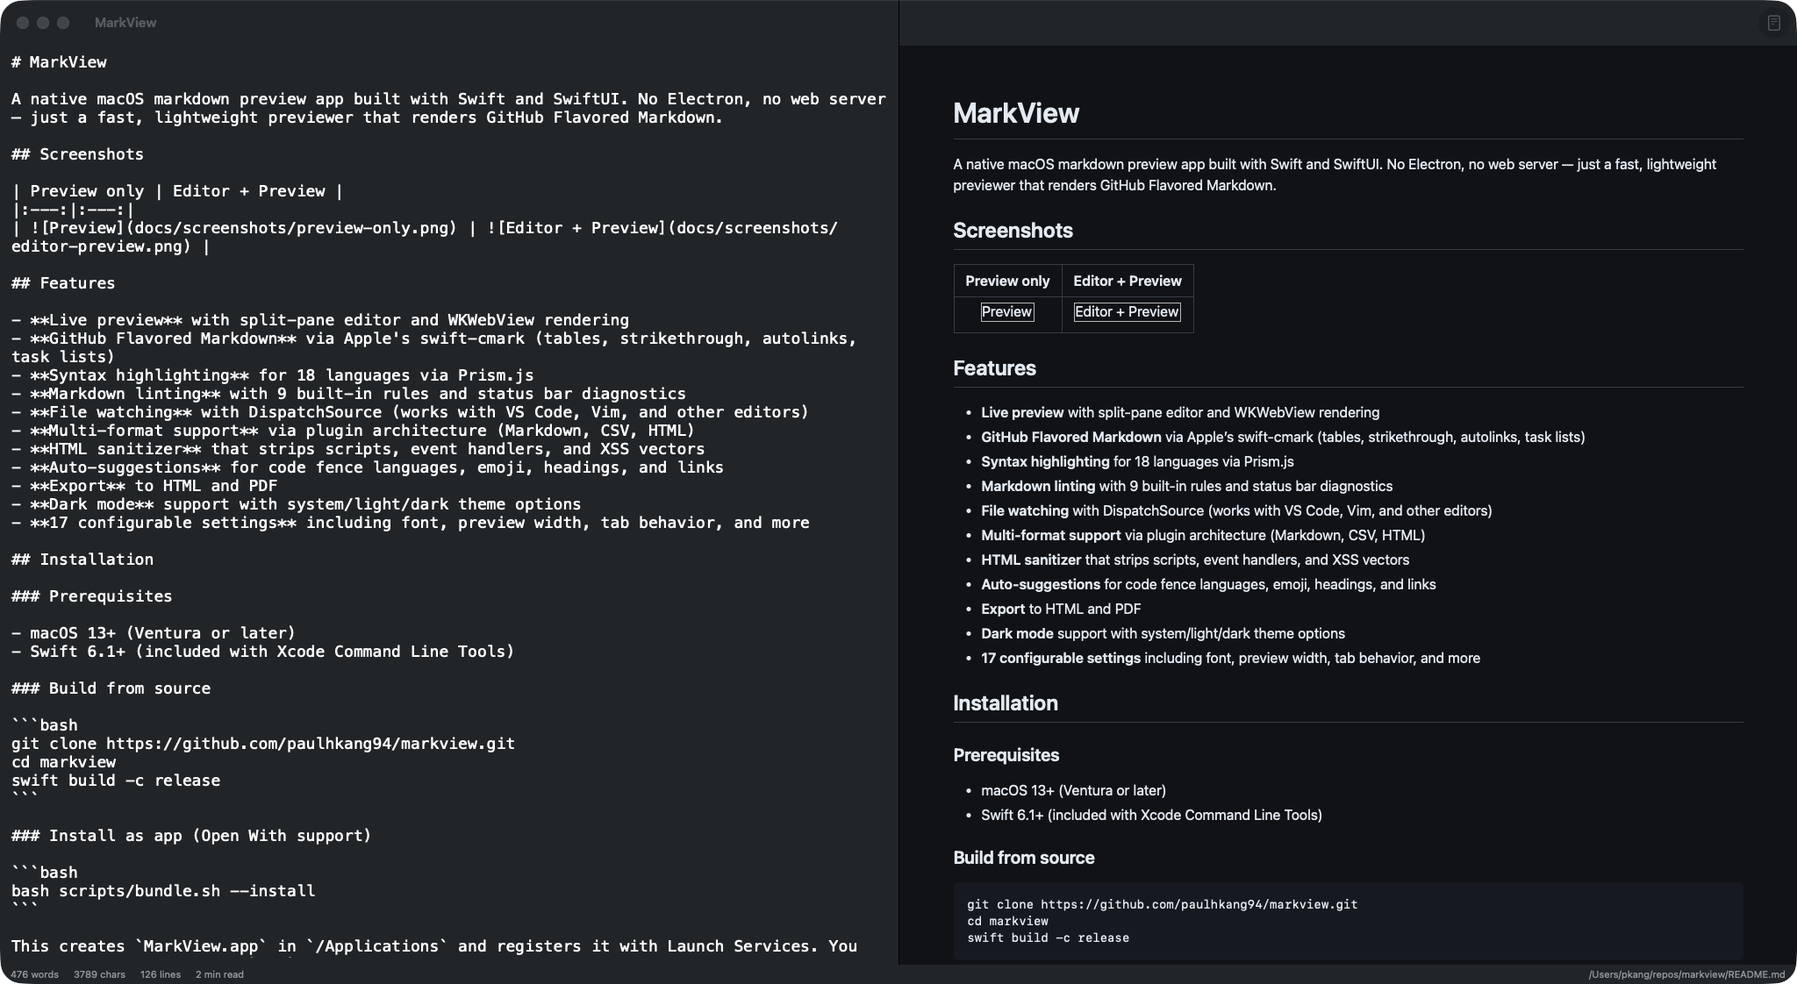
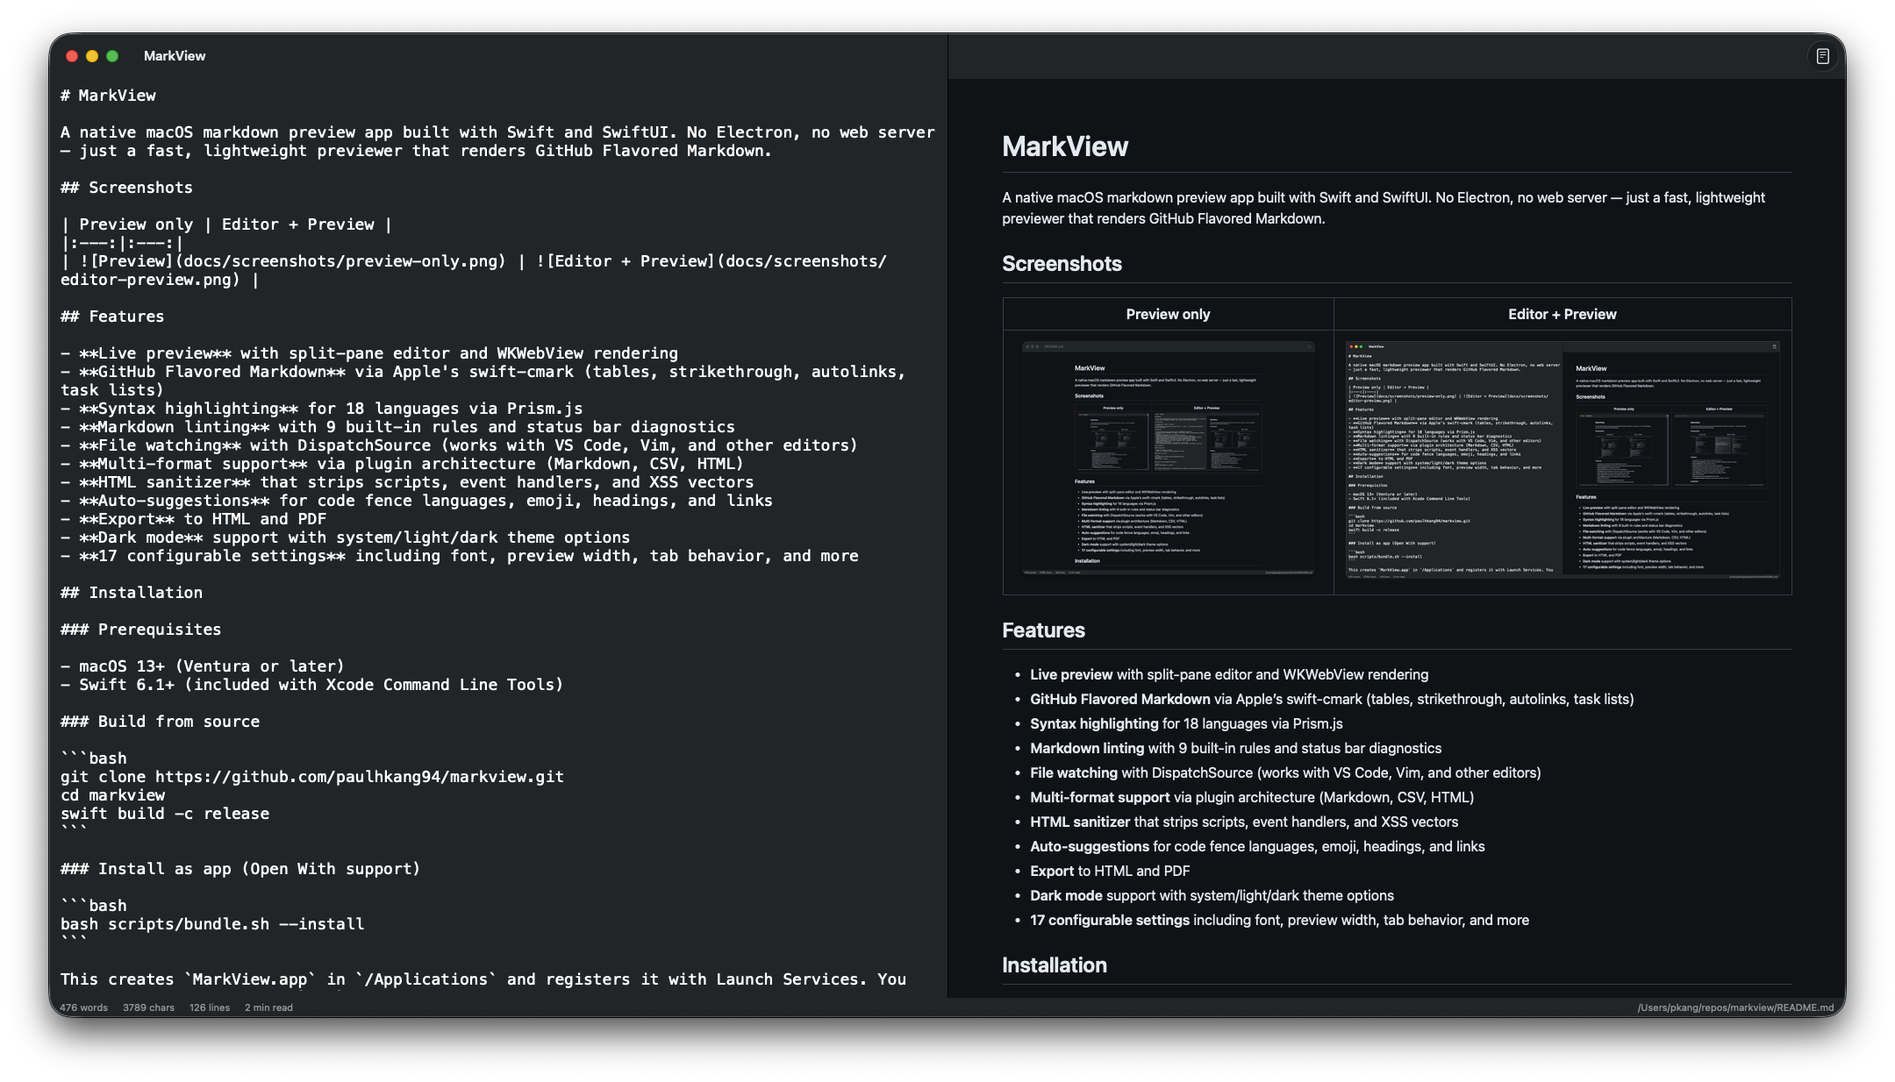
Fix local image rendering, add auto-open panel, dark mode h3-h5, code signing
- Fix WKWebView local image rendering: use loadFileURL + <base> tag instead of
  loadHTMLString (which doesn't grant file access even with allowFileAccessFromFileURLs)
- Auto-show Open panel when launched without a file argument
- Add explicit dark mode colors for h3-h5 headings (previously relied on inheritance)
- Add ad-hoc code signing and quarantine removal to bundle.sh
- Update screenshots with fully automated capture (CGWindowList + screencapture -l)
- Update README test count to 178
- Regenerate golden baselines for CSS changes

Changed region(s): [[0.0, 0.0, 1.0, 1.0]]

diff --git a/Sources/MarkView/WebPreviewView.swift b/Sources/MarkView/WebPreviewView.swift
@@ -3,6 +3,7 @@ import WebKit
 
 struct WebPreviewView: NSViewRepresentable {
     let html: String
+    var baseDirectoryURL: URL?
 
     func makeNSView(context: Context) -> WKWebView {
         let config = WKWebViewConfiguration()
@@ -26,6 +27,7 @@ struct WebPreviewView: NSViewRepresentable {
         case .system:
             webView.appearance = nil // inherit from system
         }
+        context.coordinator.baseDirectoryURL = baseDirectoryURL
         context.coordinator.updateContent(html, in: webView)
     }
 
@@ -35,6 +37,7 @@ struct WebPreviewView: NSViewRepresentable {
 
     class Coordinator {
         weak var webView: WKWebView?
+        var baseDirectoryURL: URL?
         private var hasLoadedInitialPage = false
         private var lastHTML: String = ""
         private var prismJS: String?
@@ -54,11 +57,27 @@ struct WebPreviewView: NSViewRepresentable {
 
             if !hasLoadedInitialPage {
                 let fullHTML = injectPrism(into: styledHTML)
-                webView.loadHTMLString(fullHTML, baseURL: nil)
+                loadViaFileURL(fullHTML, in: webView)
                 hasLoadedInitialPage = true
             } else {
                 updateContentViaJS(styledHTML, in: webView)
             }
+        }
+
+        /// Write HTML to a temp file and load via loadFileURL so WKWebView can access local images.
+        /// loadHTMLString(baseURL:) does NOT grant file system access even with allowFileAccessFromFileURLs.
+        private func loadViaFileURL(_ html: String, in webView: WKWebView) {
+            var finalHTML = html
+            // Inject <base> tag so relative paths (images, links) resolve from the markdown file's directory
+            if let dir = baseDirectoryURL {
+                let baseTag = "<base href=\"\(dir.absoluteString)\">"
+                finalHTML = finalHTML.replacingOccurrences(of: "<head>", with: "<head>\(baseTag)")
+            }
+            let tempFile = FileManager.default.temporaryDirectory.appendingPathComponent("markview-preview.html")
+            try? finalHTML.write(to: tempFile, atomically: true, encoding: .utf8)
+            // Grant read access to / so WKWebView can load local images.
+            // This is a non-sandboxed desktop app — broad file access is expected.
+            webView.loadFileURL(tempFile, allowingReadAccessTo: URL(fileURLWithPath: "/"))
         }
 
         private func injectSettingsCSS(into html: String) -> String {
@@ -164,7 +183,8 @@ struct WebPreviewView: NSViewRepresentable {
             "tr:nth-child(2n) { background-color: #151b23; }",
             "blockquote { border-left-color: #3d444d; color: #8b949e; }",
             "hr { border-top-color: #3d444d; }",
-            "h1, h2 { border-bottom-color: #3d444d; color: #e6edf3; }",
+            "h1, h2, h3, h4, h5 { color: #e6edf3; }",
+            "h1, h2 { border-bottom-color: #3d444d; }",
             "h6 { color: #8b949e; }",
         ].joined(separator: " ")
 

diff --git a/Sources/MarkViewCore/MarkdownRenderer.swift b/Sources/MarkViewCore/MarkdownRenderer.swift
@@ -71,7 +71,7 @@ public final class MarkdownRenderer {
             <style>
                 :root { color-scheme: light dark; }
                 body { font-family: -apple-system, BlinkMacSystemFont, "Segoe UI", Helvetica, Arial, sans-serif; max-width: 900px; margin: 0 auto; padding: 32px; line-height: 1.6; color: #1f2328; background: #fff; }
-                @media (prefers-color-scheme: dark) { body { color: #e6edf3; background: #0d1117; } a { color: #58a6ff; } code:not([class*="language-"]) { background: #343942; color: #e6edf3; } pre { background: #161b22 !important; color: #e6edf3; } th, td { border-color: #3d444d; color: #e6edf3; } tr { background-color: #0d1117; border-top-color: #3d444db3; } tr:nth-child(2n) { background-color: #151b23; } blockquote { border-left-color: #3d444d; color: #8b949e; } hr { border-top-color: #3d444d; } h1, h2 { border-bottom-color: #3d444d; color: #e6edf3; } h6 { color: #8b949e; } }
+                @media (prefers-color-scheme: dark) { body { color: #e6edf3; background: #0d1117; } a { color: #58a6ff; } code:not([class*="language-"]) { background: #343942; color: #e6edf3; } pre { background: #161b22 !important; color: #e6edf3; } th, td { border-color: #3d444d; color: #e6edf3; } tr { background-color: #0d1117; border-top-color: #3d444db3; } tr:nth-child(2n) { background-color: #151b23; } blockquote { border-left-color: #3d444d; color: #8b949e; } hr { border-top-color: #3d444d; } h1, h2, h3, h4, h5 { color: #e6edf3; } h1, h2 { border-bottom-color: #3d444d; } h6 { color: #8b949e; } }
                 h1, h2 { border-bottom: 1px solid #d1d9e0; padding-bottom: 0.3em; }
                 pre { background: #f6f8fa; padding: 16px; border-radius: 6px; overflow-x: auto; }
                 code { background: #eff1f3; padding: 0.2em 0.4em; border-radius: 6px; font-size: 85%; font-family: ui-monospace, SFMono-Regular, Menlo, monospace; }

diff --git a/Tests/TestRunner/Fixtures/expected/full-template/basic.html b/Tests/TestRunner/Fixtures/expected/full-template/basic.html
@@ -5,7 +5,7 @@
     <style>
         :root { color-scheme: light dark; }
         body { font-family: -apple-system, BlinkMacSystemFont, "Segoe UI", Helvetica, Arial, sans-serif; max-width: 900px; margin: 0 auto; padding: 32px; line-height: 1.6; color: #1f2328; background: #fff; }
-        @media (prefers-color-scheme: dark) { body { color: #e6edf3; background: #0d1117; } a { color: #58a6ff; } code:not([class*="language-"]) { background: #343942; color: #e6edf3; } pre { background: #161b22 !important; color: #e6edf3; } th, td { border-color: #3d444d; color: #e6edf3; } tr { background-color: #0d1117; border-top-color: #3d444db3; } tr:nth-child(2n) { background-color: #151b23; } blockquote { border-left-color: #3d444d; color: #8b949e; } hr { border-top-color: #3d444d; } h1, h2 { border-bottom-color: #3d444d; color: #e6edf3; } h6 { color: #8b949e; } }
+        @media (prefers-color-scheme: dark) { body { color: #e6edf3; background: #0d1117; } a { color: #58a6ff; } code:not([class*="language-"]) { background: #343942; color: #e6edf3; } pre { background: #161b22 !important; color: #e6edf3; } th, td { border-color: #3d444d; color: #e6edf3; } tr { background-color: #0d1117; border-top-color: #3d444db3; } tr:nth-child(2n) { background-color: #151b23; } blockquote { border-left-color: #3d444d; color: #8b949e; } hr { border-top-color: #3d444d; } h1, h2, h3, h4, h5 { color: #e6edf3; } h1, h2 { border-bottom-color: #3d444d; } h6 { color: #8b949e; } }
         h1, h2 { border-bottom: 1px solid #d1d9e0; padding-bottom: 0.3em; }
         pre { background: #f6f8fa; padding: 16px; border-radius: 6px; overflow-x: auto; }
         code { background: #eff1f3; padding: 0.2em 0.4em; border-radius: 6px; font-size: 85%; font-family: ui-monospace, SFMono-Regular, Menlo, monospace; }

diff --git a/Tests/TestRunner/Fixtures/expected/full-template/code-blocks.html b/Tests/TestRunner/Fixtures/expected/full-template/code-blocks.html
@@ -5,7 +5,7 @@
     <style>
         :root { color-scheme: light dark; }
         body { font-family: -apple-system, BlinkMacSystemFont, "Segoe UI", Helvetica, Arial, sans-serif; max-width: 900px; margin: 0 auto; padding: 32px; line-height: 1.6; color: #1f2328; background: #fff; }
-        @media (prefers-color-scheme: dark) { body { color: #e6edf3; background: #0d1117; } a { color: #58a6ff; } code:not([class*="language-"]) { background: #343942; color: #e6edf3; } pre { background: #161b22 !important; color: #e6edf3; } th, td { border-color: #3d444d; color: #e6edf3; } tr { background-color: #0d1117; border-top-color: #3d444db3; } tr:nth-child(2n) { background-color: #151b23; } blockquote { border-left-color: #3d444d; color: #8b949e; } hr { border-top-color: #3d444d; } h1, h2 { border-bottom-color: #3d444d; color: #e6edf3; } h6 { color: #8b949e; } }
+        @media (prefers-color-scheme: dark) { body { color: #e6edf3; background: #0d1117; } a { color: #58a6ff; } code:not([class*="language-"]) { background: #343942; color: #e6edf3; } pre { background: #161b22 !important; color: #e6edf3; } th, td { border-color: #3d444d; color: #e6edf3; } tr { background-color: #0d1117; border-top-color: #3d444db3; } tr:nth-child(2n) { background-color: #151b23; } blockquote { border-left-color: #3d444d; color: #8b949e; } hr { border-top-color: #3d444d; } h1, h2, h3, h4, h5 { color: #e6edf3; } h1, h2 { border-bottom-color: #3d444d; } h6 { color: #8b949e; } }
         h1, h2 { border-bottom: 1px solid #d1d9e0; padding-bottom: 0.3em; }
         pre { background: #f6f8fa; padding: 16px; border-radius: 6px; overflow-x: auto; }
         code { background: #eff1f3; padding: 0.2em 0.4em; border-radius: 6px; font-size: 85%; font-family: ui-monospace, SFMono-Regular, Menlo, monospace; }

diff --git a/Tests/TestRunner/Fixtures/expected/full-template/edge-cases.html b/Tests/TestRunner/Fixtures/expected/full-template/edge-cases.html
@@ -5,7 +5,7 @@
     <style>
         :root { color-scheme: light dark; }
         body { font-family: -apple-system, BlinkMacSystemFont, "Segoe UI", Helvetica, Arial, sans-serif; max-width: 900px; margin: 0 auto; padding: 32px; line-height: 1.6; color: #1f2328; background: #fff; }
-        @media (prefers-color-scheme: dark) { body { color: #e6edf3; background: #0d1117; } a { color: #58a6ff; } code:not([class*="language-"]) { background: #343942; color: #e6edf3; } pre { background: #161b22 !important; color: #e6edf3; } th, td { border-color: #3d444d; color: #e6edf3; } tr { background-color: #0d1117; border-top-color: #3d444db3; } tr:nth-child(2n) { background-color: #151b23; } blockquote { border-left-color: #3d444d; color: #8b949e; } hr { border-top-color: #3d444d; } h1, h2 { border-bottom-color: #3d444d; color: #e6edf3; } h6 { color: #8b949e; } }
+        @media (prefers-color-scheme: dark) { body { color: #e6edf3; background: #0d1117; } a { color: #58a6ff; } code:not([class*="language-"]) { background: #343942; color: #e6edf3; } pre { background: #161b22 !important; color: #e6edf3; } th, td { border-color: #3d444d; color: #e6edf3; } tr { background-color: #0d1117; border-top-color: #3d444db3; } tr:nth-child(2n) { background-color: #151b23; } blockquote { border-left-color: #3d444d; color: #8b949e; } hr { border-top-color: #3d444d; } h1, h2, h3, h4, h5 { color: #e6edf3; } h1, h2 { border-bottom-color: #3d444d; } h6 { color: #8b949e; } }
         h1, h2 { border-bottom: 1px solid #d1d9e0; padding-bottom: 0.3em; }
         pre { background: #f6f8fa; padding: 16px; border-radius: 6px; overflow-x: auto; }
         code { background: #eff1f3; padding: 0.2em 0.4em; border-radius: 6px; font-size: 85%; font-family: ui-monospace, SFMono-Regular, Menlo, monospace; }

diff --git a/Tests/TestRunner/Fixtures/expected/full-template/gfm-autolinks.html b/Tests/TestRunner/Fixtures/expected/full-template/gfm-autolinks.html
@@ -5,7 +5,7 @@
     <style>
         :root { color-scheme: light dark; }
         body { font-family: -apple-system, BlinkMacSystemFont, "Segoe UI", Helvetica, Arial, sans-serif; max-width: 900px; margin: 0 auto; padding: 32px; line-height: 1.6; color: #1f2328; background: #fff; }
-        @media (prefers-color-scheme: dark) { body { color: #e6edf3; background: #0d1117; } a { color: #58a6ff; } code:not([class*="language-"]) { background: #343942; color: #e6edf3; } pre { background: #161b22 !important; color: #e6edf3; } th, td { border-color: #3d444d; color: #e6edf3; } tr { background-color: #0d1117; border-top-color: #3d444db3; } tr:nth-child(2n) { background-color: #151b23; } blockquote { border-left-color: #3d444d; color: #8b949e; } hr { border-top-color: #3d444d; } h1, h2 { border-bottom-color: #3d444d; color: #e6edf3; } h6 { color: #8b949e; } }
+        @media (prefers-color-scheme: dark) { body { color: #e6edf3; background: #0d1117; } a { color: #58a6ff; } code:not([class*="language-"]) { background: #343942; color: #e6edf3; } pre { background: #161b22 !important; color: #e6edf3; } th, td { border-color: #3d444d; color: #e6edf3; } tr { background-color: #0d1117; border-top-color: #3d444db3; } tr:nth-child(2n) { background-color: #151b23; } blockquote { border-left-color: #3d444d; color: #8b949e; } hr { border-top-color: #3d444d; } h1, h2, h3, h4, h5 { color: #e6edf3; } h1, h2 { border-bottom-color: #3d444d; } h6 { color: #8b949e; } }
         h1, h2 { border-bottom: 1px solid #d1d9e0; padding-bottom: 0.3em; }
         pre { background: #f6f8fa; padding: 16px; border-radius: 6px; overflow-x: auto; }
         code { background: #eff1f3; padding: 0.2em 0.4em; border-radius: 6px; font-size: 85%; font-family: ui-monospace, SFMono-Regular, Menlo, monospace; }

diff --git a/Tests/TestRunner/Fixtures/expected/full-template/gfm-strikethrough.html b/Tests/TestRunner/Fixtures/expected/full-template/gfm-strikethrough.html
@@ -5,7 +5,7 @@
     <style>
         :root { color-scheme: light dark; }
         body { font-family: -apple-system, BlinkMacSystemFont, "Segoe UI", Helvetica, Arial, sans-serif; max-width: 900px; margin: 0 auto; padding: 32px; line-height: 1.6; color: #1f2328; background: #fff; }
-        @media (prefers-color-scheme: dark) { body { color: #e6edf3; background: #0d1117; } a { color: #58a6ff; } code:not([class*="language-"]) { background: #343942; color: #e6edf3; } pre { background: #161b22 !important; color: #e6edf3; } th, td { border-color: #3d444d; color: #e6edf3; } tr { background-color: #0d1117; border-top-color: #3d444db3; } tr:nth-child(2n) { background-color: #151b23; } blockquote { border-left-color: #3d444d; color: #8b949e; } hr { border-top-color: #3d444d; } h1, h2 { border-bottom-color: #3d444d; color: #e6edf3; } h6 { color: #8b949e; } }
+        @media (prefers-color-scheme: dark) { body { color: #e6edf3; background: #0d1117; } a { color: #58a6ff; } code:not([class*="language-"]) { background: #343942; color: #e6edf3; } pre { background: #161b22 !important; color: #e6edf3; } th, td { border-color: #3d444d; color: #e6edf3; } tr { background-color: #0d1117; border-top-color: #3d444db3; } tr:nth-child(2n) { background-color: #151b23; } blockquote { border-left-color: #3d444d; color: #8b949e; } hr { border-top-color: #3d444d; } h1, h2, h3, h4, h5 { color: #e6edf3; } h1, h2 { border-bottom-color: #3d444d; } h6 { color: #8b949e; } }
         h1, h2 { border-bottom: 1px solid #d1d9e0; padding-bottom: 0.3em; }
         pre { background: #f6f8fa; padding: 16px; border-radius: 6px; overflow-x: auto; }
         code { background: #eff1f3; padding: 0.2em 0.4em; border-radius: 6px; font-size: 85%; font-family: ui-monospace, SFMono-Regular, Menlo, monospace; }

diff --git a/Tests/TestRunner/Fixtures/expected/full-template/gfm-tables.html b/Tests/TestRunner/Fixtures/expected/full-template/gfm-tables.html
@@ -5,7 +5,7 @@
     <style>
         :root { color-scheme: light dark; }
         body { font-family: -apple-system, BlinkMacSystemFont, "Segoe UI", Helvetica, Arial, sans-serif; max-width: 900px; margin: 0 auto; padding: 32px; line-height: 1.6; color: #1f2328; background: #fff; }
-        @media (prefers-color-scheme: dark) { body { color: #e6edf3; background: #0d1117; } a { color: #58a6ff; } code:not([class*="language-"]) { background: #343942; color: #e6edf3; } pre { background: #161b22 !important; color: #e6edf3; } th, td { border-color: #3d444d; color: #e6edf3; } tr { background-color: #0d1117; border-top-color: #3d444db3; } tr:nth-child(2n) { background-color: #151b23; } blockquote { border-left-color: #3d444d; color: #8b949e; } hr { border-top-color: #3d444d; } h1, h2 { border-bottom-color: #3d444d; color: #e6edf3; } h6 { color: #8b949e; } }
+        @media (prefers-color-scheme: dark) { body { color: #e6edf3; background: #0d1117; } a { color: #58a6ff; } code:not([class*="language-"]) { background: #343942; color: #e6edf3; } pre { background: #161b22 !important; color: #e6edf3; } th, td { border-color: #3d444d; color: #e6edf3; } tr { background-color: #0d1117; border-top-color: #3d444db3; } tr:nth-child(2n) { background-color: #151b23; } blockquote { border-left-color: #3d444d; color: #8b949e; } hr { border-top-color: #3d444d; } h1, h2, h3, h4, h5 { color: #e6edf3; } h1, h2 { border-bottom-color: #3d444d; } h6 { color: #8b949e; } }
         h1, h2 { border-bottom: 1px solid #d1d9e0; padding-bottom: 0.3em; }
         pre { background: #f6f8fa; padding: 16px; border-radius: 6px; overflow-x: auto; }
         code { background: #eff1f3; padding: 0.2em 0.4em; border-radius: 6px; font-size: 85%; font-family: ui-monospace, SFMono-Regular, Menlo, monospace; }

diff --git a/Tests/TestRunner/Fixtures/expected/full-template/gfm-tasklists.html b/Tests/TestRunner/Fixtures/expected/full-template/gfm-tasklists.html
@@ -5,7 +5,7 @@
     <style>
         :root { color-scheme: light dark; }
         body { font-family: -apple-system, BlinkMacSystemFont, "Segoe UI", Helvetica, Arial, sans-serif; max-width: 900px; margin: 0 auto; padding: 32px; line-height: 1.6; color: #1f2328; background: #fff; }
-        @media (prefers-color-scheme: dark) { body { color: #e6edf3; background: #0d1117; } a { color: #58a6ff; } code:not([class*="language-"]) { background: #343942; color: #e6edf3; } pre { background: #161b22 !important; color: #e6edf3; } th, td { border-color: #3d444d; color: #e6edf3; } tr { background-color: #0d1117; border-top-color: #3d444db3; } tr:nth-child(2n) { background-color: #151b23; } blockquote { border-left-color: #3d444d; color: #8b949e; } hr { border-top-color: #3d444d; } h1, h2 { border-bottom-color: #3d444d; color: #e6edf3; } h6 { color: #8b949e; } }
+        @media (prefers-color-scheme: dark) { body { color: #e6edf3; background: #0d1117; } a { color: #58a6ff; } code:not([class*="language-"]) { background: #343942; color: #e6edf3; } pre { background: #161b22 !important; color: #e6edf3; } th, td { border-color: #3d444d; color: #e6edf3; } tr { background-color: #0d1117; border-top-color: #3d444db3; } tr:nth-child(2n) { background-color: #151b23; } blockquote { border-left-color: #3d444d; color: #8b949e; } hr { border-top-color: #3d444d; } h1, h2, h3, h4, h5 { color: #e6edf3; } h1, h2 { border-bottom-color: #3d444d; } h6 { color: #8b949e; } }
         h1, h2 { border-bottom: 1px solid #d1d9e0; padding-bottom: 0.3em; }
         pre { background: #f6f8fa; padding: 16px; border-radius: 6px; overflow-x: auto; }
         code { background: #eff1f3; padding: 0.2em 0.4em; border-radius: 6px; font-size: 85%; font-family: ui-monospace, SFMono-Regular, Menlo, monospace; }

diff --git a/Tests/TestRunner/Fixtures/expected/full-template/links-and-images.html b/Tests/TestRunner/Fixtures/expected/full-template/links-and-images.html
@@ -5,7 +5,7 @@
     <style>
         :root { color-scheme: light dark; }
         body { font-family: -apple-system, BlinkMacSystemFont, "Segoe UI", Helvetica, Arial, sans-serif; max-width: 900px; margin: 0 auto; padding: 32px; line-height: 1.6; color: #1f2328; background: #fff; }
-        @media (prefers-color-scheme: dark) { body { color: #e6edf3; background: #0d1117; } a { color: #58a6ff; } code:not([class*="language-"]) { background: #343942; color: #e6edf3; } pre { background: #161b22 !important; color: #e6edf3; } th, td { border-color: #3d444d; color: #e6edf3; } tr { background-color: #0d1117; border-top-color: #3d444db3; } tr:nth-child(2n) { background-color: #151b23; } blockquote { border-left-color: #3d444d; color: #8b949e; } hr { border-top-color: #3d444d; } h1, h2 { border-bottom-color: #3d444d; color: #e6edf3; } h6 { color: #8b949e; } }
+        @media (prefers-color-scheme: dark) { body { color: #e6edf3; background: #0d1117; } a { color: #58a6ff; } code:not([class*="language-"]) { background: #343942; color: #e6edf3; } pre { background: #161b22 !important; color: #e6edf3; } th, td { border-color: #3d444d; color: #e6edf3; } tr { background-color: #0d1117; border-top-color: #3d444db3; } tr:nth-child(2n) { background-color: #151b23; } blockquote { border-left-color: #3d444d; color: #8b949e; } hr { border-top-color: #3d444d; } h1, h2, h3, h4, h5 { color: #e6edf3; } h1, h2 { border-bottom-color: #3d444d; } h6 { color: #8b949e; } }
         h1, h2 { border-bottom: 1px solid #d1d9e0; padding-bottom: 0.3em; }
         pre { background: #f6f8fa; padding: 16px; border-radius: 6px; overflow-x: auto; }
         code { background: #eff1f3; padding: 0.2em 0.4em; border-radius: 6px; font-size: 85%; font-family: ui-monospace, SFMono-Regular, Menlo, monospace; }

diff --git a/Sources/MarkView/ContentView.swift b/Sources/MarkView/ContentView.swift
@@ -20,12 +20,12 @@ struct ContentView: View {
                             .frame(minWidth: 200)
                             .accessibilityElement(children: .contain)
 
-                            WebPreviewView(html: viewModel.renderedHTML)
+                            WebPreviewView(html: viewModel.renderedHTML, baseDirectoryURL: viewModel.currentFileDirectoryURL)
                                 .frame(minWidth: 200)
                                 .accessibilityElement(children: .contain)
                         }
                     } else {
-                        WebPreviewView(html: viewModel.renderedHTML)
+                        WebPreviewView(html: viewModel.renderedHTML, baseDirectoryURL: viewModel.currentFileDirectoryURL)
                     }
                 } else {
                     DropTargetView { url in

diff --git a/Sources/MarkView/PreviewViewModel.swift b/Sources/MarkView/PreviewViewModel.swift
@@ -15,6 +15,12 @@ final class PreviewViewModel: ObservableObject {
     var currentFilePath: String?
     var fileName: String = "MarkView"
 
+    /// Directory URL of the current file, used as base URL for resolving relative paths (images, links)
+    var currentFileDirectoryURL: URL? {
+        guard let path = currentFilePath else { return nil }
+        return URL(fileURLWithPath: path).deletingLastPathComponent()
+    }
+
     private var fileWatcher: FileWatcher?
     private var renderTask: Task<Void, Never>?
     private var lintTask: Task<Void, Never>?
